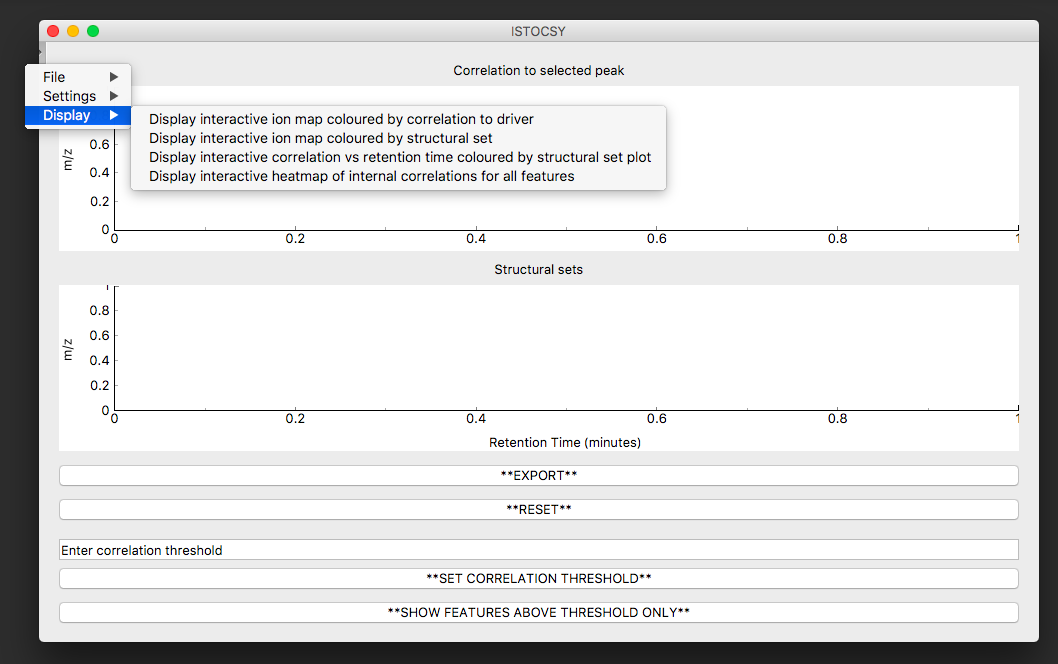
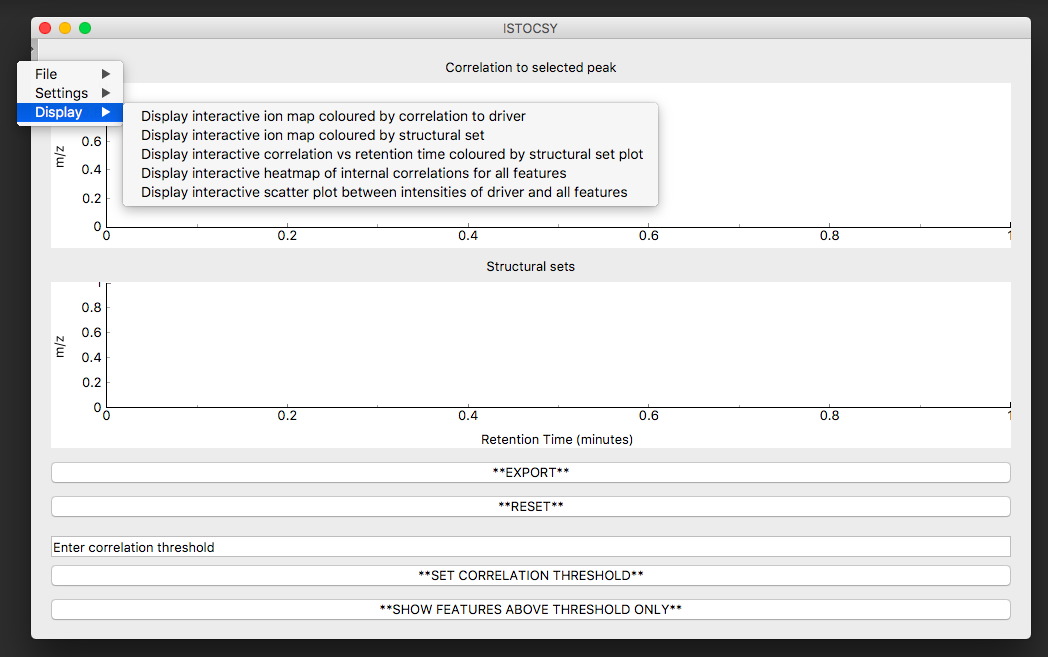
Update documentation

diff --git a/docs/source/tutorial.rst b/docs/source/tutorial.rst
@@ -205,6 +205,12 @@ A heatmap of the internal correlations between all detected features:
 .. figure:: _static/plotlyHeatmap.png
 	:figwidth: 90%
 	:alt: ISTOCSY plotly heatmap all correlations
+	
+A scatter plot of the relative intensities between the driver and all detected features:
+
+.. figure:: _static/plotlyCorrelationScatter.png
+	:figwidth: 90%
+	:alt: ISTOCSY plotly scatter plot of intensities between driver and all features
 
 
 
